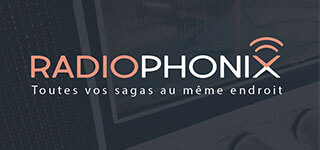
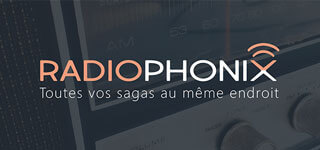
Optimisation des images de la mosaïque

diff --git a/sources/realisations/faire-part-de-mon-mariage.html b/sources/realisations/faire-part-de-mon-mariage.html
@@ -4,6 +4,7 @@ titre: "Faire part de mon mariage"
 tags: "realisations"
 date: 2013-03-24
 mosaique: "faire-part-mariage.png"
+mosaique2x: "faire-part-mariage_2x.png"
 mosaiqueTaille: "2-2"
 ---
 

diff --git a/sources/realisations/metalfest.html b/sources/realisations/metalfest.html
@@ -3,7 +3,7 @@ layout: layout/standard.njk
 titre: "T-shirt Metalfest"
 tags: realisations
 date: 2020-11-01
-mosaique: "metalfest.png"
+mosaique: "metalfest.svg"
 mosaiqueTaille: "2-1"
 ---
 

diff --git a/sources/realisations/cuyz.html b/sources/realisations/cuyz.html
@@ -3,7 +3,7 @@ layout: layout/standard.njk
 titre: "Team CuyZ"
 tags: "realisations"
 date: 2018-10-26
-mosaique: team-cuyz.png
+mosaique: team-cuyz.svg
 ---
 
 <p class="mb-l">

diff --git a/sources/realisations/formz.html b/sources/realisations/formz.html
@@ -3,7 +3,7 @@ layout: layout/standard.njk
 titre: "FormZ"
 tags: "realisations"
 date: 2017-11-01
-mosaique: "formz.png"
+mosaique: "formz.svg"
 ---
 
 <p class="mb-l">

diff --git a/sources/realisations/radiophonix.html b/sources/realisations/radiophonix.html
@@ -4,6 +4,7 @@ titre: "Radiophonix"
 tags: "realisations"
 date: 2018-02-06
 mosaique: "radiophonix.jpg"
+mosaique2x: "radiophonix_2x.jpg"
 mosaiqueTaille: "2-1"
 ---
 

diff --git a/sources/realisations/kirby.html b/sources/realisations/kirby.html
@@ -3,7 +3,7 @@ layout: layout/standard.njk
 titre: "T-shirt Kirby"
 tags: realisations
 date: 2020-11-01
-mosaique: "kirby.jpg"
+mosaique: "kirby.svg"
 ---
 
 

diff --git a/sources/realisations/pixel-art.html b/sources/realisations/pixel-art.html
@@ -4,6 +4,7 @@ titre: "Pixel art"
 tags: "realisations"
 date: 2017-05-28
 mosaique: "pixel-art.png"
+mosaique2x: "pixel-art_2x.png"
 ---
 
 

diff --git a/sources/recueil/journal-de-bord-ptl9.md b/sources/recueil/journal-de-bord-ptl9.md
@@ -19,7 +19,11 @@ Idéal aussi, comme je suis bien plus à l'aise les mains dans le code plutôt q
 
 
 ## A faire
+0. faire les mosaique en svg ou prévoir la version 2x pour les écrans Retina ou HD
 1. rédiger/illustrer les réalisations ajoutées à la mosaïque
+
+# 15 avril
+* Optimisation des images de la mosaïque
 
 ## 13 avril
 * Test image responsive
